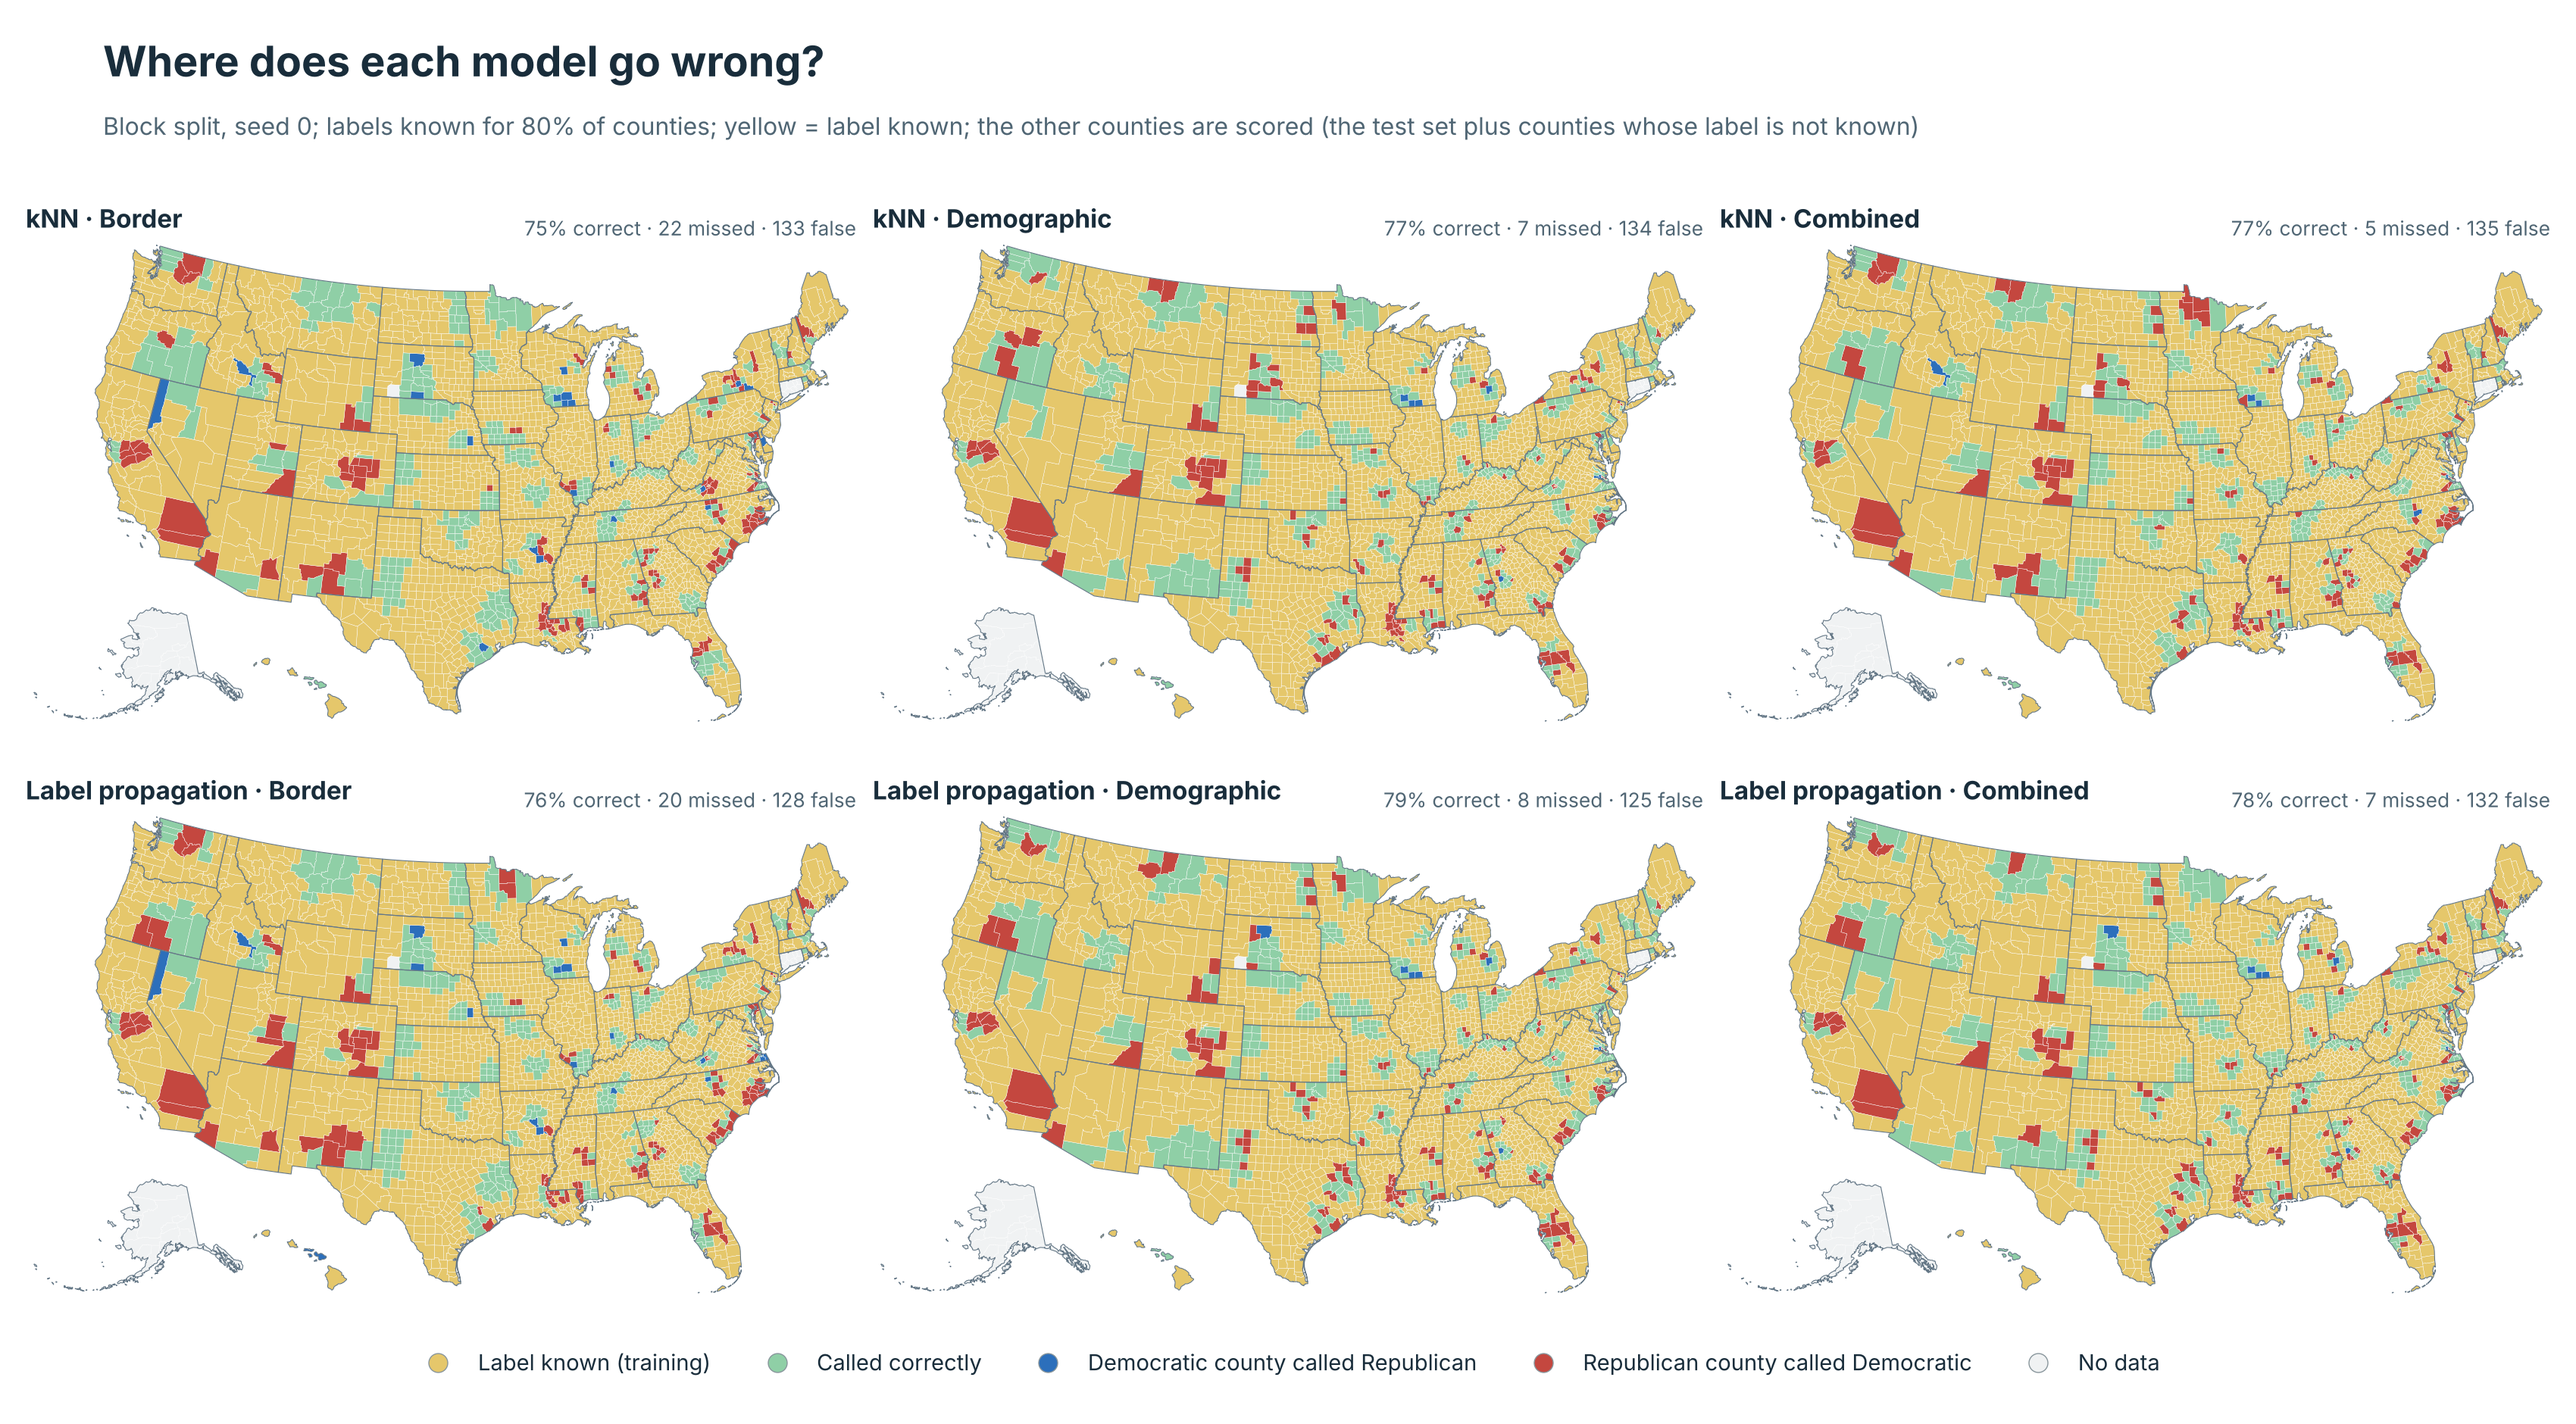
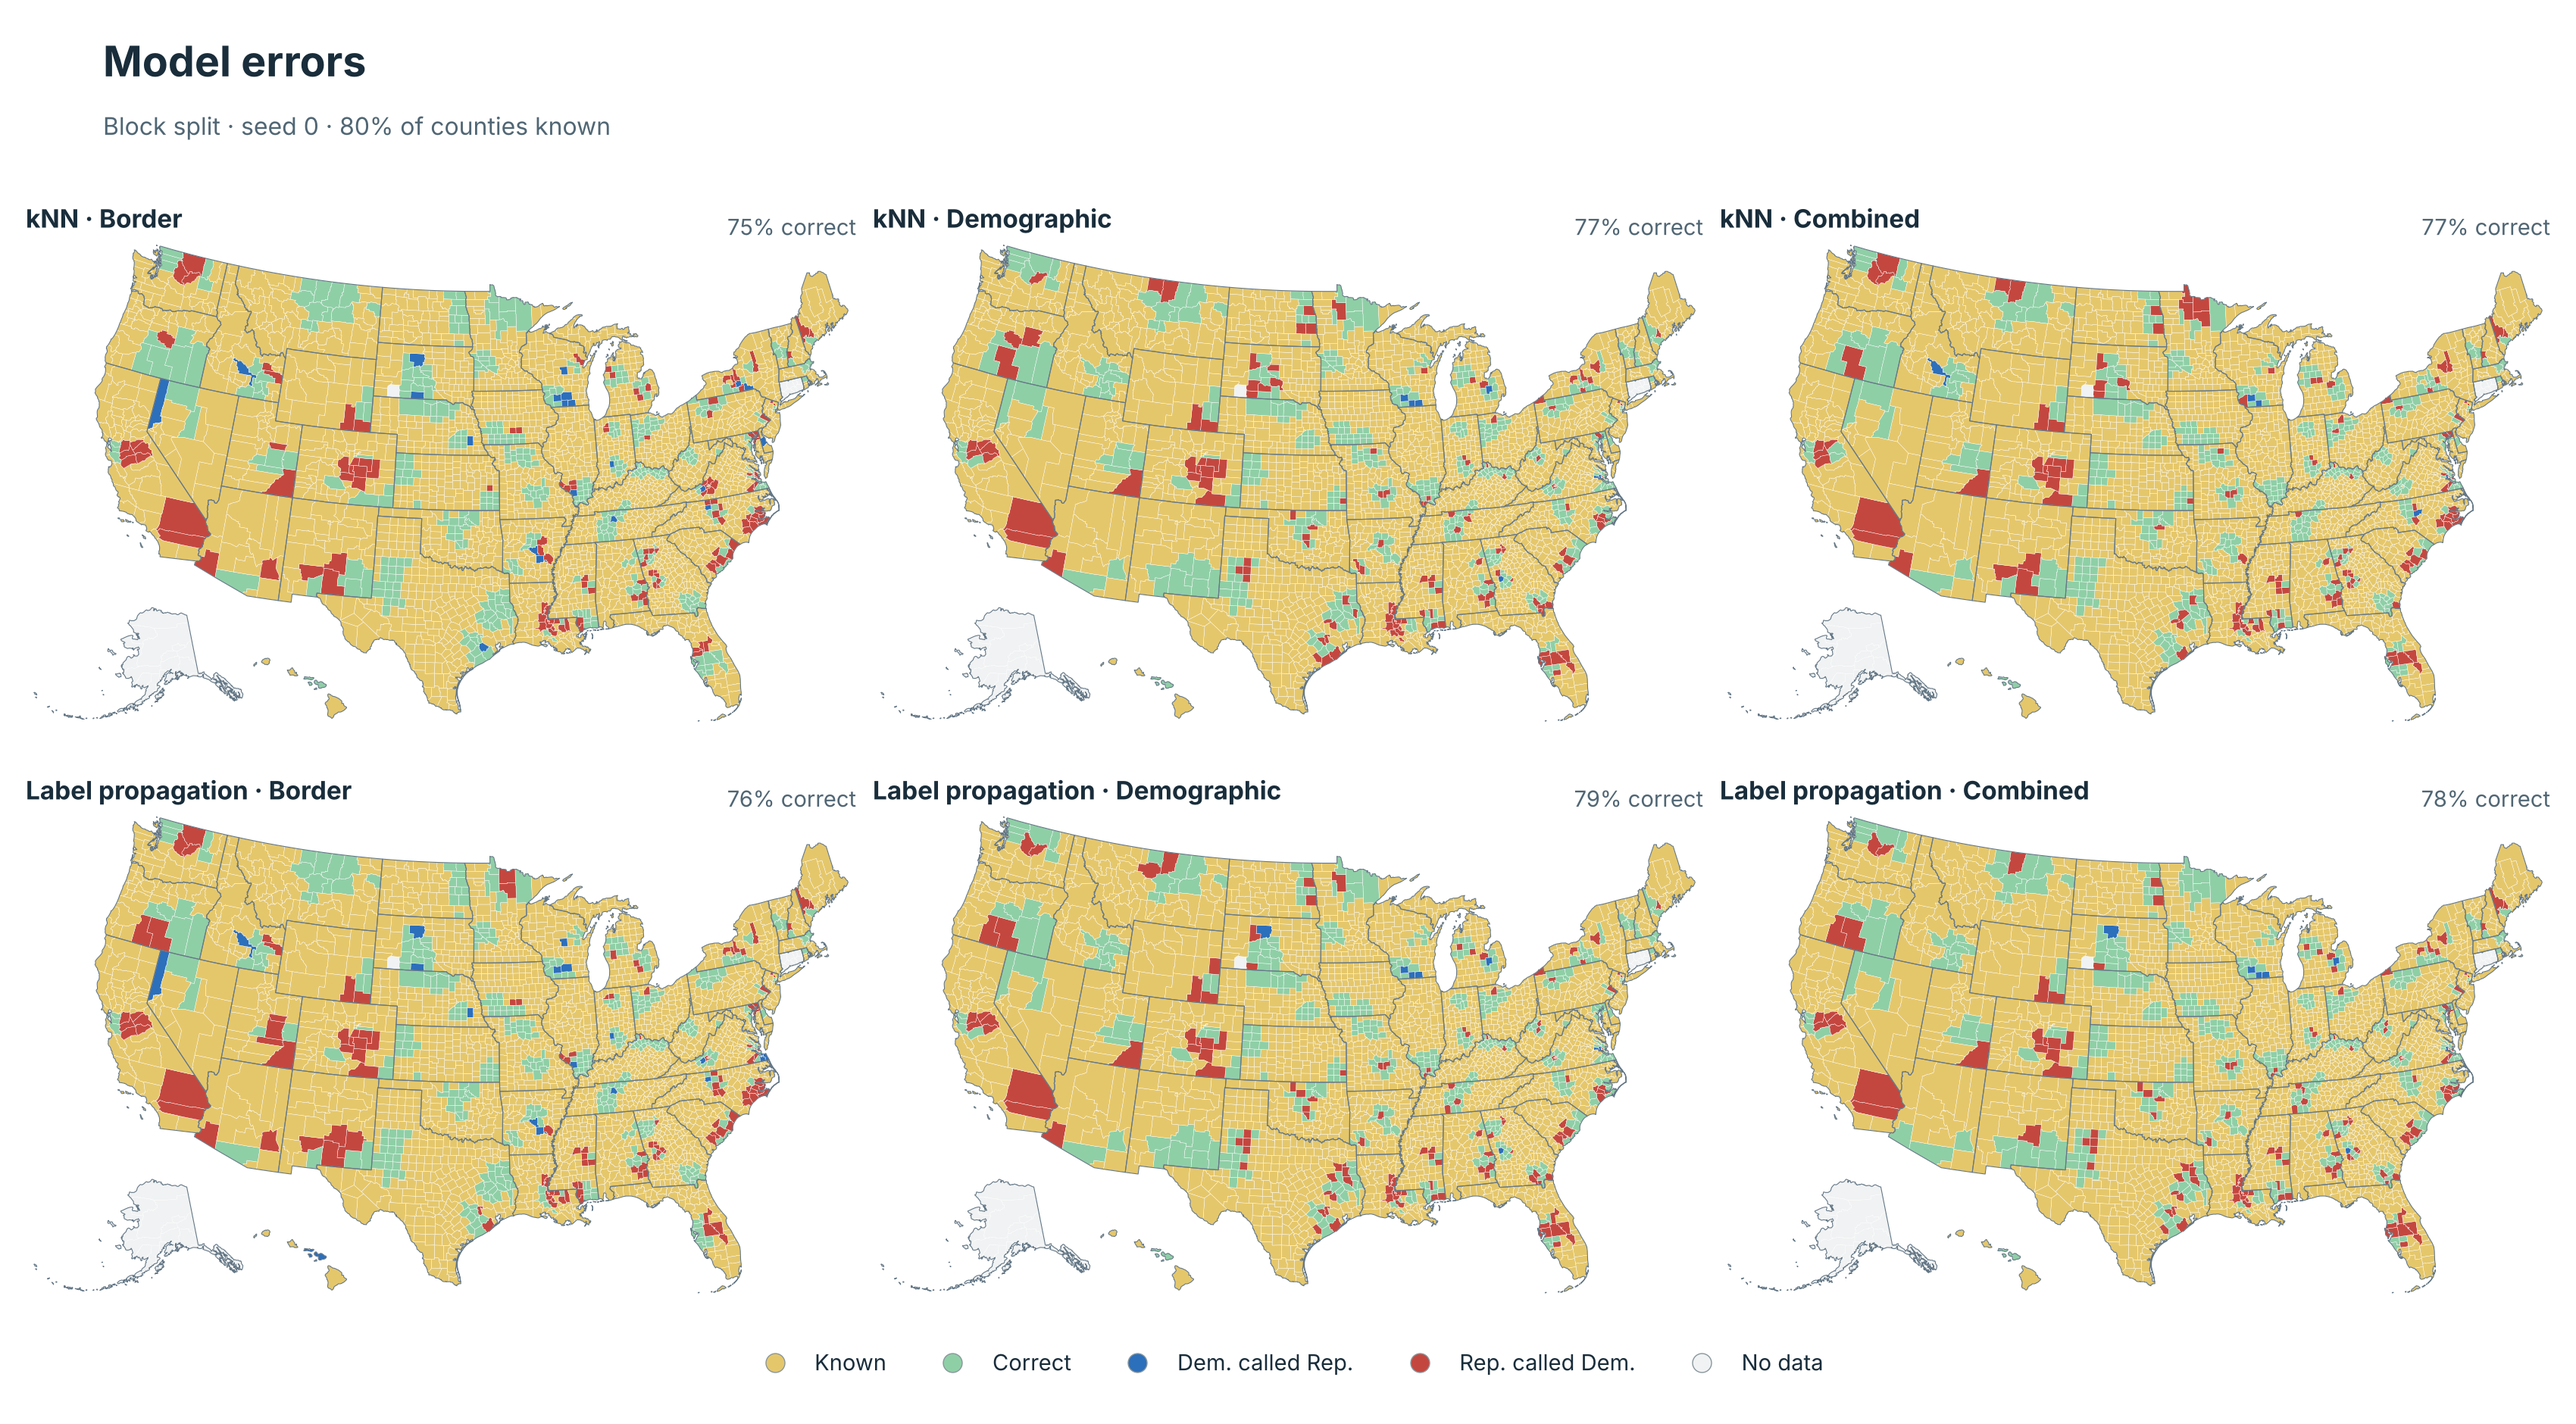
Shorten figure text
Claude-Session: https://claude.ai/code/session_015Ws27n5jEKFEpjFhRPzqSw

diff --git a/src/visualization/maps.py b/src/visualization/maps.py
@@ -106,8 +106,7 @@ def _legend(fig, entries, y=0.02, ncol=None):
 
 def errors_grid(canvas, repro, comp, out, split="stratified", seed=0, frac="max"):
     """Right and wrong calls on the test counties for every model and graph."""
-    cats = {"ok": ("Called correctly", st.CORRECT), "miss": ("Democratic county called Republican", st.DEM),
-            "false": ("Republican county called Democratic", st.REP)}
+    cats = {"ok": ("Correct", st.CORRECT), "miss": ("Dem. called Rep.", st.DEM), "false": ("Rep. called Dem.", st.REP)}
     fig, axes = plt.subplots(2, 3, figsize=(17, 9.4))
     size = 5 if canvas.atlas is None else None
     for r, model in enumerate(st.MODELS):
@@ -120,11 +119,10 @@ def errors_grid(canvas, repro, comp, out, split="stratified", seed=0, frac="max"
             colors.update({g: cats[k][1] for g, k in zip(res.index, kind)})
             canvas.draw(ax, colors, size=size)
             ax.set_title(f"{st.MODEL_LABEL[model]} · {st.GRAPH_LABEL[graph].replace(' graph', '')}", loc="left", fontsize=12)
-            ax.text(1.0, 1.0, f"{(kind == 'ok').mean():.0%} correct · {(kind == 'miss').sum()} missed · {(kind == 'false').sum()} false",
-                    transform=ax.transAxes, ha="right", va="bottom", fontsize=9.5, color=st.MUTED)
+            ax.text(1.0, 1.0, f"{(kind == 'ok').mean():.0%} correct", transform=ax.transAxes, ha="right",
+                    va="bottom", fontsize=10.5, color=st.MUTED)
     fig.subplots_adjust(top=0.84, bottom=0.08, left=0.01, right=0.99, wspace=0.02, hspace=0.12)
-    _legend(fig, [("Label known (training)", st.KNOWN)] + [(l, c) for l, c in cats.values()] + [("No data", st.BLANK)])
-    st.headline(fig, "Where does each model go wrong?",
-                f"{st.SPLIT_LABEL[split]}, seed {seed}; labels known for {row.known_share:.0%} of counties; yellow = label known; the other counties are scored (the test set plus counties whose label is not known)")
+    _legend(fig, [("Known", st.KNOWN)] + [(l, c) for l, c in cats.values()] + [("No data", st.BLANK)])
+    st.headline(fig, "Model errors", f"{st.SPLIT_LABEL[split]} · seed {seed} · {row.known_share:.0%} of counties known")
     fig.savefig(out, dpi=200)
     plt.close(fig)

diff --git a/src/visualization/charts.py b/src/visualization/charts.py
@@ -24,14 +24,13 @@ def learning_curves(comp, out, split):
                 ax.plot(agg.x * 100, agg.m, color=st.GRAPH_COLOR[graph], lw=2, ms=5, **st.MODEL_STYLE[model])
                 ax.fill_between(agg.x * 100, agg.m - agg.s, agg.m + agg.s, color=st.GRAPH_COLOR[graph], alpha=0.10, lw=0)
         ax.set_title(label, loc="left")
-        ax.set_xlabel("Counties with known labels (% of all counties)")
+        ax.set_xlabel("Known labels (% of counties)")
         ax.set_ylim(*ylim)
     handles = [Line2D([], [], color=st.GRAPH_COLOR[g], lw=3, label=st.GRAPH_LABEL[g]) for g in st.GRAPHS]
     handles += [Line2D([], [], color="#44525c", label=st.MODEL_LABEL[m], **st.MODEL_STYLE[m]) for m in st.MODELS]
     fig.legend(handles=handles, loc="lower center", ncol=5, bbox_to_anchor=(0.5, 0.0))
     fig.subplots_adjust(top=0.76, bottom=0.2, wspace=0.16, left=0.07, right=0.98)
-    st.headline(fig, "More known counties, better predictions",
-                f"{st.SPLIT_LABEL[split]}; performance on the scored counties vs training size; mean and standard deviation over {d.seed.nunique()} random seeds")
+    st.headline(fig, "Accuracy vs known labels", f"{st.SPLIT_LABEL[split]} · mean ± std over {d.seed.nunique()} seeds")
     fig.savefig(out, dpi=200)
     plt.close(fig)
 
@@ -64,7 +63,7 @@ def metrics_heatmap(comp, out, split, frac="max"):
         s.set_visible(False)
     ax.tick_params(length=0)
     fig.subplots_adjust(top=0.8, bottom=0.07, left=0.31, right=0.98)
-    st.headline(fig, "Every metric, every graph and model",
-                f"{st.SPLIT_LABEL[split]}, {d.known_share.mean():.0%} of counties known; Democratic is the positive class; mean ± std over {d.seed.nunique()} seeds")
+    st.headline(fig, "All metrics",
+                f"{st.SPLIT_LABEL[split]} · {d.known_share.mean():.0%} known · mean ± std over {d.seed.nunique()} seeds")
     fig.savefig(out, dpi=200)
     plt.close(fig)
